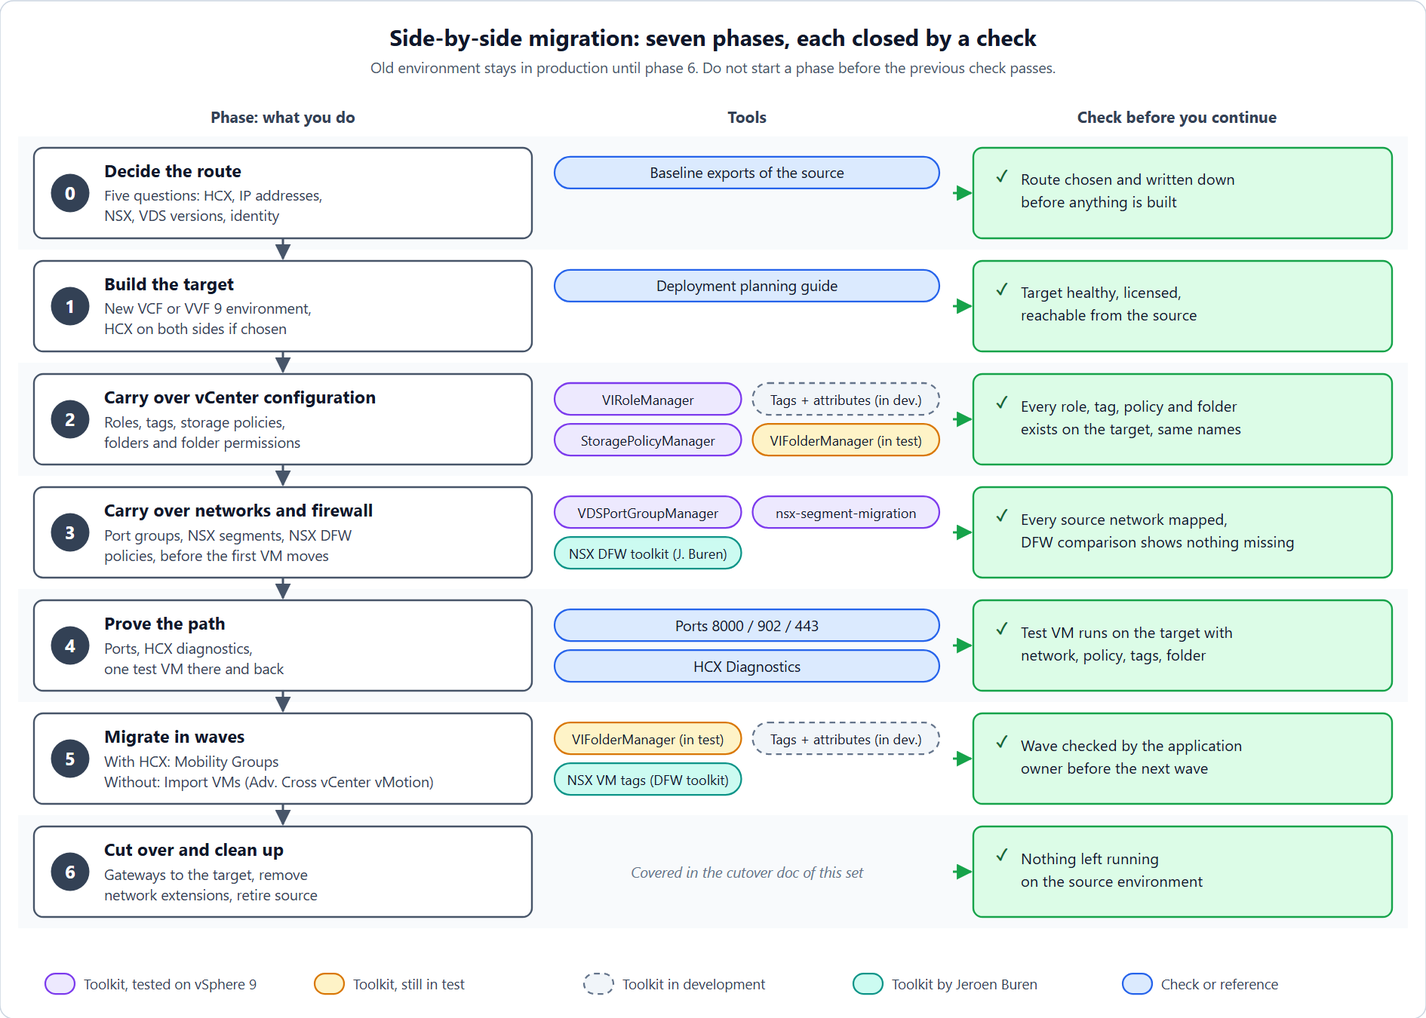
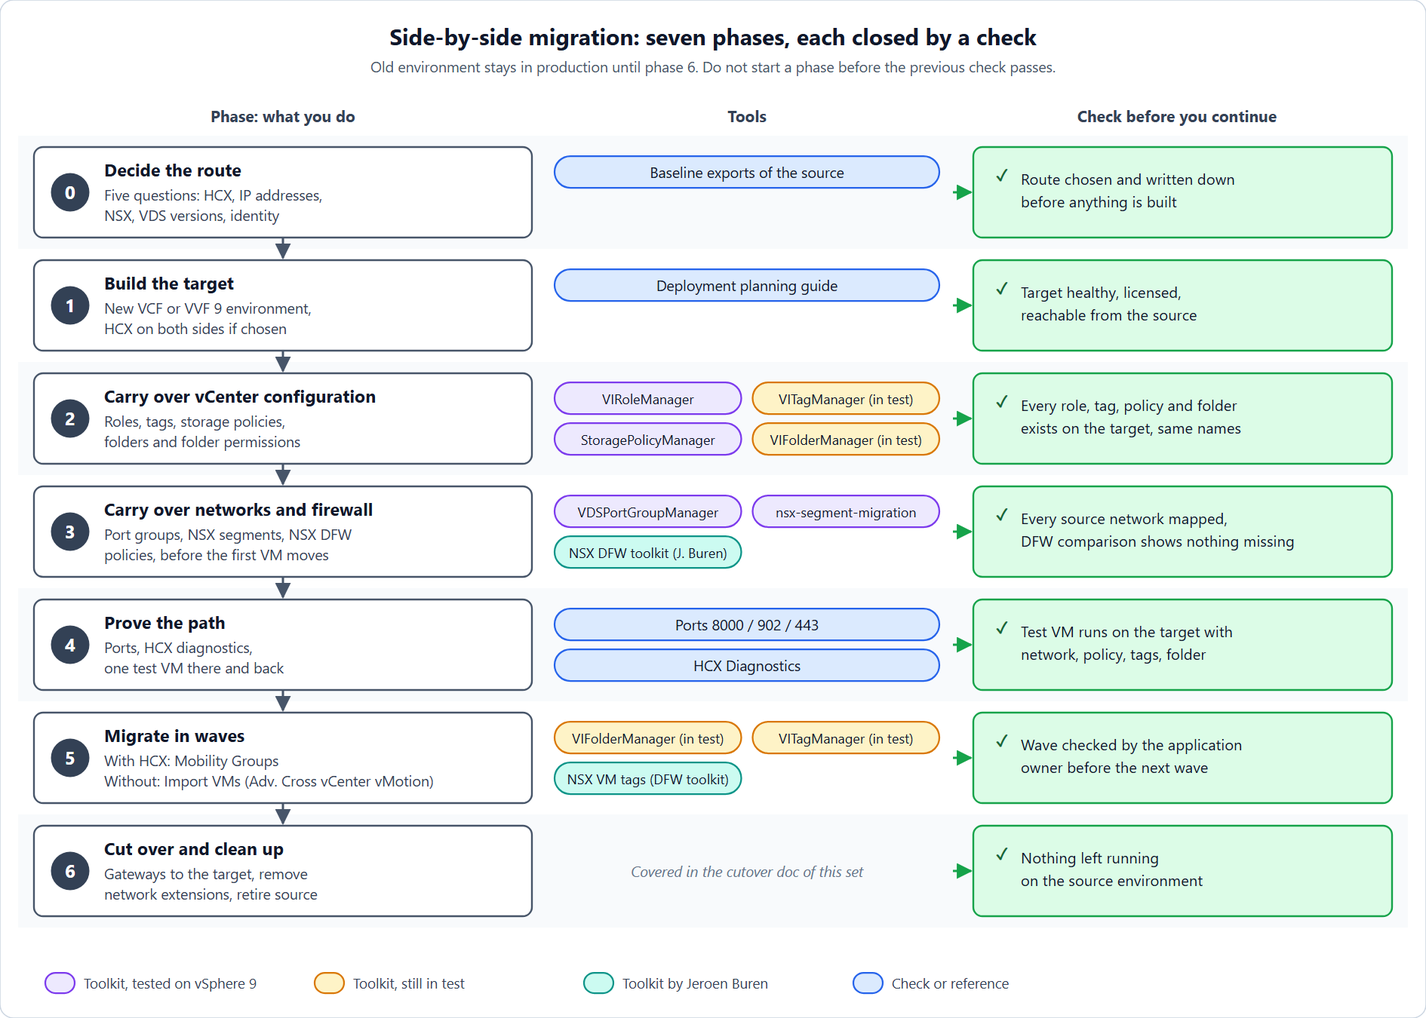
v2.9.3: VITagManager replaces the tags toolkit "in development" (#144)
docs/30 steps 2 and 3 carry tag categories, tags and custom attribute
names over with VITagManager (dry run, -Category, system attributes
skipped, import never removes), PowerCLI kept as the fallback. docs/29
phases 2 and 5, toolkit table and credits; docs/32 exports and re-applies
a wave's tags with -VMName from the wave list. Diagrams: tags chips now
"VITagManager (in test)", legend entry "Toolkit in development" removed,
PNGs re-rendered.

diff --git a/docs/30-carry-over-vcenter-configuration.md b/docs/30-carry-over-vcenter-configuration.md
@@ -70,9 +70,8 @@ target to the same directory first (question 5 in
 vCenters. Every export lands there. It's your reference for the checks,
 and your record of what the source looked like.
 
-**Who made the toolkits.** VIRoleManager, StoragePolicyManager and
-VIFolderManager, and the tags and custom attributes toolkit in
-development, are written by Paul van Dieen, the author of this guide
+**Who made the toolkits.** VIRoleManager, VITagManager,
+StoragePolicyManager and VIFolderManager are written by Paul van Dieen, the author of this guide
 ([hollebollevsan.nl](https://www.hollebollevsan.nl)).
 
 > **Use at your own risk.** These are community tools, not Broadcom
@@ -87,16 +86,20 @@ development, are written by Paul van Dieen, the author of this guide
 **What has been tested.** The toolkits have been tested with vSphere 9
 vCenters on both sides, and from a **vCenter 8.0 U3 source** into a
 vCenter 9.1.1 target (lab, 2026-11-16, with a test set per toolkit: roles,
-tag and vSAN policies, folders with permissions). VIFolderManager is
-still in test, and the vCenter 8 test had no hosts, so no VMs were moved
-into folders. A **7.x source** hasn't been tested. Open each export file
+tag and vSAN policies, folders with permissions, tag categories and
+custom attributes). VIFolderManager and VITagManager are still in test,
+and the vCenter 8 test had no hosts, so no VMs were moved into folders.
+VITagManager's VM part (assignments and values per wave, VMs with the
+same name) was tested from a VCF 9.0.2 source into 9.1.1 (lab,
+2026-11-16). A **7.x source** hasn't been tested. Open each export file
 and check that it holds what you expect before you import it. Where a
 toolkit has a dry run, use it first.
 
-**Things all three toolkits do the same way:**
+**Things all four toolkits do the same way:**
 
-- **Running an import twice is safe.** Roles and storage policies that
-  already exist are skipped; folders that exist are reused. So after a
+- **Running an import twice is safe.** Roles, storage policies, tag
+  categories, tags and attributes that already exist are skipped;
+  folders that exist are reused. So after a
   partial run or a fix, just run it again.
 - **Self-signed certificates** (a lab, or a vCenter without a CA-signed
   certificate yet): add `-SkipCertificateValidation`. In production, fix
@@ -104,19 +107,19 @@ toolkit has a dry run, use it first.
 - **Wrong or changed password:** add `-ResetCredentials` to be asked
   again.
 - **Pickers** accept a number, a comma-separated list, or `all`
-  (VIFolderManager also ranges like `2-6`).
+  (VIFolderManager and VITagManager also ranges like `2-6`).
 
 ---
 
 ## The order, and why
 
-![Carrying over the vCenter configuration in five steps. Before you start: PowerShell 7.4 or later with VCF.PowerCLI 9, the target joined to the same directory, one working folder. Step 1, roles with VIRoleManager: in phase 2 custom roles created and skipped privileges reviewed; nothing per VM. Step 2, tag categories and tags with the tags and custom attributes toolkit in development: in phase 2 categories and tags with the same cardinality and entity types; in phase 5 export assignments before each wave and apply them after, because they don't follow the VM. Step 3, custom attributes, same toolkit: in phase 2 attribute names with the same target type; in phase 5 check that the values arrived. Step 4, storage policies with StoragePolicyManager: in phase 2 imported or mapped, skipped rules reviewed; in phase 5 check each VM against the policy mapping. Step 5, folders and permissions with VIFolderManager, still in test: in phase 2 folder trees and folder permissions without moving objects; in phase 5 an import with -MoveObjects puts arrived VMs in their folders. Folder permissions need the roles from step 1; tag-based storage policy rules need the tags from step 2.](images/vcenter-config/order.png)
+![Carrying over the vCenter configuration in five steps. Before you start: PowerShell 7.4 or later with VCF.PowerCLI 9, the target joined to the same directory, one working folder. Step 1, roles with VIRoleManager: in phase 2 custom roles created and skipped privileges reviewed; nothing per VM. Step 2, tag categories and tags with VITagManager, still in test: in phase 2 categories and tags with the same cardinality and entity types; in phase 5 export assignments before each wave and apply them after, because they don't follow the VM. Step 3, custom attributes, same toolkit: in phase 2 attribute names with the same target type; in phase 5 check that the values arrived. Step 4, storage policies with StoragePolicyManager: in phase 2 imported or mapped, skipped rules reviewed; in phase 5 check each VM against the policy mapping. Step 5, folders and permissions with VIFolderManager, still in test: in phase 2 folder trees and folder permissions without moving objects; in phase 5 an import with -MoveObjects puts arrived VMs in their folders. Folder permissions need the roles from step 1; tag-based storage policy rules need the tags from step 2.](images/vcenter-config/order.png)
 
 | Step | What | Tool | Needs first |
 | --- | --- | --- | --- |
 | 1 | Roles | VIRoleManager | – |
-| 2 | Tag categories and tags | PowerCLI (toolkit in development) | – |
-| 3 | Custom attributes | PowerCLI (same toolkit, in development) | – |
+| 2 | Tag categories and tags | VITagManager, still in test | – |
+| 3 | Custom attributes | VITagManager, same run | – |
 | 4 | Storage policies | StoragePolicyManager | Step 2, for tag-based rules |
 | 5 | Folders and permissions | VIFolderManager, PowerCLI | Step 1 and the target's directory |
 
@@ -212,8 +215,9 @@ privilege whether that's acceptable.
 
 ## Step 2: tag categories and tags
 
-**Toolkit:** in development. Until then, PowerCLI as below, based on Jim
-Millard's [Copy-vcTags.ps1 and Migrate-vcTags.ps1](https://blog.millard.org/2026/05/migrating-tags-after-cross-vcenter.html).
+**Toolkit:** [VITagManager](https://github.com/pauldiee/VITagManager) (still in test, so the dry run is not
+optional). It handles step 3 as well. Without it: PowerCLI, at the end of
+this step.
 
 There are two parts to tags, and they move at different times:
 
@@ -227,15 +231,70 @@ get migrated with it even if the corresponding tags & categories are
 present in the target vCenter"*, and that the assignments must be
 captured before the VM moves, *"or that information is lost forever"*
 ([Migrating tags after cross-vCenter vMotion](https://blog.millard.org/2026/05/migrating-tags-after-cross-vcenter.html),
-Jim Millard, 2026-05).
+Jim Millard, 2026-05). VITagManager follows the same split: `-Content
+Definitions` now, `-Content Assignments` per wave.
 
-A toolkit for tags and custom attributes together is being developed for
-this set. Until it's available, use PowerCLI.
+**Export from the source.** One JSON file with the tag categories (with
+their cardinality and entity types), the tags, and the custom attribute
+names for step 3:
 
-**Copy categories and tags.** Connected to both vCenters, this creates
-every source category and tag that the target doesn't have yet. It's
-the same approach as Jim Millard's `Copy-vcTags.ps1`. Try it against a
-lab or a test vCenter first.
+```powershell
+.\Invoke-VITagManager.ps1 -vCenterServer <source-vcenter> -Mode Export -Content Definitions -BackupDirectory <working-folder>\tags
+```
+
+Add `-Category` (names or wildcards, for example `-Category 'Backup*','Tier'`)
+to take only some categories. Categories that belong to products you're
+leaving behind can stay where they are. Custom attributes that vCenter and
+other products create and manage themselves (names starting with
+`com.vmware.`, `com.vrlcm.`, `AutoDeploy.` or `VMSP-`, and attributes on
+non-inventory objects such as scheduled tasks) are left out; the log lists
+them (VITagManager README).
+
+**Import into the target**, first as a dry run:
+
+```powershell
+.\Invoke-VITagManager.ps1 -vCenterServer <target-vcenter> -Mode Import -Content Definitions -BackupDirectory <working-folder>\tags -DryRun
+```
+
+You pick the export file (the newest is marked). Read the log, then run
+the same command without `-DryRun`. What the import does:
+
+- Categories, tags and attributes that are **missing** are created with
+  the source's settings. One that **already exists** is left alone; if
+  its cardinality, entity types or target type differ, the log says so.
+- It **never removes** anything.
+- Pass the same `-Category` as on the export, or use it here to import
+  only part of a full export.
+
+The log file goes to `Logs\` next to the script unless you pass
+`-LogDirectory`. Keep it with the exports.
+
+**Export the assignments now, as a baseline.** You'll export them again
+right before each wave, but take this one now so you have the full
+picture before anything moves:
+
+```powershell
+.\Invoke-VITagManager.ps1 -vCenterServer <source-vcenter> -Mode Export -Content Assignments -BackupDirectory <working-folder>\tags
+```
+
+This holds the tags and custom attribute values of every VM, host,
+cluster, datastore, folder, network and the other inventory objects.
+
+**Running it again** creates only what's still missing, so it's safe to
+repeat: a second import reports everything as already present. **Undo:**
+`Remove-Tag` and `Remove-TagCategory` on the target.
+
+**Check.** Run the Definitions import once more with `-DryRun`: nothing
+to create, and no category with different settings. From a vCenter 8.0.3
+source into 9.1.1, the categories arrived with the same cardinality and
+entity types, including one without restrictions (lab-verified,
+2026-11-16).
+
+**Without the toolkit (PowerCLI).** Connected to both vCenters, this
+creates every source category and tag that the target doesn't have yet,
+the same approach as Jim Millard's
+[Copy-vcTags.ps1](https://blog.millard.org/2026/05/migrating-tags-after-cross-vcenter.html).
+Try it against a lab or a test vCenter first.
 
 ```powershell
 $src = Connect-VIServer <source-vcenter>
@@ -258,11 +317,7 @@ foreach ($tag in Get-Tag -Server $src) {
 `-Cardinality` is `Single` (one tag of this category per object) or
 `Multiple`; `-EntityType` limits which object types the category can be
 assigned to. Both are copied from the source, so a category behaves the
-same on the target.
-
-**Export the assignments now, as a baseline.** You'll export them again
-right before each wave, but take this one now so you have the full
-picture before anything moves:
+same on the target. A baseline of the assignments with PowerCLI:
 
 ```powershell
 Get-TagAssignment -Server $src | Select-Object `
@@ -271,18 +326,12 @@ Get-TagAssignment -Server $src | Select-Object `
   Export-Csv -Path <working-folder>\tag-assignments-baseline.csv -NoTypeInformation
 ```
 
-**Running it again** creates only what's still missing, so it's safe to
-repeat. **Undo:** `Remove-Tag` and `Remove-TagCategory` on the target.
-
-**Check.** `Get-TagCategory` and `Get-Tag` on both vCenters return the
-same names, and each category has the same cardinality and entity types.
-
 ---
 
 ## Step 3: custom attributes
 
-**Toolkit:** the tags and custom attributes toolkit, in development.
-Until then, PowerCLI as below.
+**Toolkit:** [VITagManager](https://github.com/pauldiee/VITagManager), the same run as step 2. Without it:
+PowerCLI, below.
 
 Custom attributes are the extra annotation fields on VMs and hosts.
 [KB 344959](https://knowledge.broadcom.com/external/article/344959) lists
@@ -290,7 +339,16 @@ them among the definitions that aren't migrated when they *don't* exist
 on the target, and among the metadata that *is* migrated when they do.
 So create the attribute names on the target first.
 
-Compare first; most environments have only a few:
+The Definitions export and import of step 2 already include the
+attribute names, each with its target type; a global attribute (no
+target type) is created as a global one (lab-verified on 9.1.1,
+2026-11-16). The Assignments export holds the values, so a wave import
+in phase 5 also fills in values that didn't arrive. A value that is
+already set to something else on the target is reported and kept, unless
+you add `-OverwriteValues`.
+
+**Without the toolkit (PowerCLI).** Compare first; most environments have
+only a few:
 
 ```powershell
 Get-CustomAttribute -Server $src | Select-Object Name, TargetType
@@ -308,7 +366,8 @@ An attribute without a target type on the source is a global one; create
 it with `-TargetType $null` (*"If the value is $null the custom attribute
 is global and applies to all target types"*, PowerCLI help).
 
-**Check.** Both lists match. After the test VM in phase 4, compare its
+**Check.** The attribute names and target types match on both vCenters
+(`Get-CustomAttribute`). After the test VM in phase 4, compare its
 values with `Get-Annotation` on both sides.
 
 ---

diff --git a/docs/29-side-by-side-migration.md b/docs/29-side-by-side-migration.md
@@ -288,7 +288,7 @@ Identity Broker, see
 
 ## The phases
 
-![Side-by-side migration in seven phases. 0, decide the route: the five questions, with baseline exports of the source; check: route chosen and written down. 1, build the target: new VCF or VVF 9 environment, HCX on both sides if chosen; check: target healthy, licensed, reachable. 2, carry over vCenter configuration: roles, tags, storage policies, folders and folder permissions, with VIRoleManager, the tags and custom attributes toolkit in development, StoragePolicyManager and VIFolderManager in test; check: everything exists on the target with the same names. 3, carry over the networks and the firewall: VDS port groups, NSX segments and NSX distributed firewall policies, with VDSPortGroupManager, nsx-segment-migration and Jeroen Buren's NSX DFW toolkit; check: every source network has a mapped target and the DFW comparison is clean. 4, prove the path: ports 8000, 902 and 443, HCX diagnostics, one test VM there and back; check: test VM runs with network, policy, tags and folder. 5, migrate in waves: HCX Mobility Groups or Import VMs, then VIFolderManager to restore folders and the NSX tags on the VMs; check: each wave verified by the application owner. 6, cut over and clean up: gateways to the target, remove network extensions, retire the source; check: nothing left running on the source.](images/side-by-side-migration/phases.png)
+![Side-by-side migration in seven phases. 0, decide the route: the five questions, with baseline exports of the source; check: route chosen and written down. 1, build the target: new VCF or VVF 9 environment, HCX on both sides if chosen; check: target healthy, licensed, reachable. 2, carry over vCenter configuration: roles, tags, storage policies, folders and folder permissions, with VIRoleManager, VITagManager in test, StoragePolicyManager and VIFolderManager in test; check: everything exists on the target with the same names. 3, carry over the networks and the firewall: VDS port groups, NSX segments and NSX distributed firewall policies, with VDSPortGroupManager, nsx-segment-migration and Jeroen Buren's NSX DFW toolkit; check: every source network has a mapped target and the DFW comparison is clean. 4, prove the path: ports 8000, 902 and 443, HCX diagnostics, one test VM there and back; check: test VM runs with network, policy, tags and folder. 5, migrate in waves: HCX Mobility Groups or Import VMs, then VIFolderManager to restore folders, VITagManager for the vSphere tags and attribute values, and the NSX tags on the VMs; check: each wave verified by the application owner. 6, cut over and clean up: gateways to the target, remove network extensions, retire the source; check: nothing left running on the source.](images/side-by-side-migration/phases.png)
 
 Each phase below has three parts: what it's for, what you do, and the
 check that closes it. Don't start a phase before the previous check
@@ -300,8 +300,7 @@ there's no reason to rush a phase.
 - **Do:** answer the [five questions](#phase-0-answer-five-questions).
   Then take a **baseline export** of the source with the toolkits below
   (roles, storage policies, folders, port groups, segments) and of the
-  tag assignments, with PowerCLI until the tags and custom attributes
-  toolkit is there. Even when
+  tag assignments and attribute values (VITagManager). Even when
   you rebuild part of it by hand, that export is your reference and your
   record of what the source looked like.
 - **Check:** the route is written down: HCX or not, IP addresses kept or
@@ -331,11 +330,9 @@ it:
 2. **Tag categories and tags.** Tag-based storage policy rules refer to
    them, and the tag assignments you re-apply in phase 5 need them
    ([KB 344959](https://knowledge.broadcom.com/external/article/344959)).
-   The toolkit for this (tags and custom attributes together) is still
-   being developed; until then, recreate them in the vSphere Client or
-   with PowerCLI.
-3. **Custom attributes.** Same KB, same reason, and the same toolkit in
-   development; until then, recreate the attribute names by hand.
+   VITagManager carries them over (still in test, so dry run first).
+3. **Custom attributes.** Same KB, same reason; VITagManager takes the
+   attribute names along in the same run.
 4. **Storage policies** (StoragePolicyManager). Tag-based rules are
    matched by category and tag name, so step 2 must be done first.
 5. **Folders and folder permissions** (VIFolderManager), folders only,
@@ -416,11 +413,11 @@ Step by step: [Migrating with HCX](33-migrating-with-hcx.md) or
     workload back to the legacy environment"*.
   - Without HCX: in the target vSphere Client, right-click the cluster or
     host and choose **Import VMs**.
-  - Right **before** each wave, export the tag assignments of its VMs
-    (`Get-TagAssignment`); right **after** it, assign the same tags on the
-    target (`New-TagAssignment`). The tags and custom attributes toolkit
-    will do this once it's
-    available.
+  - Right **before** each wave, export the tag assignments and custom
+    attribute values of its VMs with VITagManager (`-Content Assignments
+    -VMListPath <wave-file>`); right **after** it, import them on the
+    target with the same wave file, dry run first
+    ([docs/30, step 2](30-carry-over-vcenter-configuration.md#step-2-tag-categories-and-tags)).
   - After each wave, run VIFolderManager's import again with
     `-MoveObjects`: VMs that have arrived go back into their folders, VMs
     that haven't are listed and skipped, so the same export works for
@@ -460,9 +457,9 @@ PowerShell toolkits for the configuration work in phases 0, 2, 3 and 5.
 They export to files you can read and keep, and import into the target
 vCenter or NSX Manager.
 
-**Who made them.** VIRoleManager, StoragePolicyManager, VIFolderManager,
-VDSPortGroupManager, nsx-segment-migration and the tags and custom
-attributes toolkit are written by Paul van Dieen, the author of this guide
+**Who made them.** VIRoleManager, VITagManager, StoragePolicyManager,
+VIFolderManager, VDSPortGroupManager and nsx-segment-migration are
+written by Paul van Dieen, the author of this guide
 ([hollebollevsan.nl](https://www.hollebollevsan.nl)). The NSX DFW migration
 toolkit is written by Jeroen Buren
 ([configmgr.nl](https://configmgr.nl)).
@@ -479,7 +476,7 @@ toolkit is written by Jeroen Buren
 | Toolkit | Moves | Status |
 | --- | --- | --- |
 | [VIRoleManager](https://github.com/pauldiee/VIRoleManager) | vCenter roles and their privileges | Tested against vSphere 9 |
-| Tags and custom attributes toolkit | Tag categories and tags, custom attributes, and their assignments and values on objects | **In development**, not yet available |
+| [VITagManager](https://github.com/pauldiee/VITagManager) | Tag categories and tags, custom attributes, and per wave the tag assignments and attribute values on the VMs | **Still in test.** Lab-tested from vCenter 8.0 U3 and VCF 9.0.2 into 9.1.1. Run with `-DryRun` first |
 | [StoragePolicyManager](https://github.com/pauldiee/StoragePolicyManager) | VM storage policies (SPBM), incl. tag-based rules | Tested against vSphere 9 |
 | [VIFolderManager](https://github.com/pauldiee/VIFolderManager) | Folder trees (VM, host, datastore, network), which objects sit where, and permissions on folders | **Still in test.** Lab-tested on VCF 9.1.1 and 9.0.2. Run with `-DryRun` first |
 | [VDSPortGroupManager](https://github.com/pauldiee/VDSPortGroupManager) | VDS port groups, also onto a switch with other uplink names (`-UplinkMap`, 1.2.0+) | Lab-tested on vCenter 9.1.1 and 9.0.2 |

diff --git a/docs/32-migrating-without-hcx.md b/docs/32-migrating-without-hcx.md
@@ -153,13 +153,18 @@ target datastores, the window, and who signs it off.
 
 1. **Export the tag assignments** of the wave's VMs, right before you
    start. Tag assignments don't travel with the VM (Jim Millard,
-   [Migrating tags after cross-vCenter vMotion](https://blog.millard.org/2026/05/migrating-tags-after-cross-vcenter.html)):
+   [Migrating tags after cross-vCenter vMotion](https://blog.millard.org/2026/05/migrating-tags-after-cross-vcenter.html)).
+   With [VITagManager](https://github.com/pauldiee/VITagManager), which
+   takes the custom attribute values along too, for the VMs of wave 1 in
+   the wave list:
 
    ```powershell
-   Get-TagAssignment -Server $src -Entity (Get-VM -Server $src -Name <wave-vm-names>) | Select-Object `
-     @{N='VM';E={$_.Entity.Name}}, @{N='Category';E={$_.Tag.Category.Name}}, @{N='Tag';E={$_.Tag.Name}} |
-     Export-Csv -Path <working-folder>\tags-wave-<n>.csv -NoTypeInformation
+   $waveVMs = (Import-Csv <working-folder>\waves.csv | Where-Object Wave -eq 1).VM
+   .\Invoke-VITagManager.ps1 -vCenterServer <source-vcenter> -Mode Export -Content Assignments -VMName $waveVMs -BackupDirectory <working-folder>\tags
    ```
+
+   [The wave script](#the-wave-script) below exports the tags itself,
+   with plain PowerCLI.
 
 2. **Check the VMs**: not in a state that blocks vMotion (see
    [Virtual Machine Conditions and Limitations for vSphere vMotion](https://techdocs.broadcom.com/us/en/vmware-cis/vsphere/vsphere/9-1/vcenter-and-host-management/migrating-virtual-machines/migration-with-vmotion/virtual-machine-conditions-and-limitation-for-vmotion.html)),
@@ -228,15 +233,20 @@ For the VMs that arrived:
    import with `-MoveObjects` (dry run first); VMs that haven't arrived are
    listed and skipped
    ([docs/30, step 5](30-carry-over-vcenter-configuration.md#step-5-folders-and-permissions)).
-2. **vSphere tags:** re-apply the assignments from the wave's export:
+2. **vSphere tags:** re-apply the assignments from the wave's export,
+   dry run first, then the same command without `-DryRun`. Pick the
+   wave's export file in the menu (the newest is marked):
 
    ```powershell
-   Import-Csv <working-folder>\tags-wave-<n>.csv | ForEach-Object {
-     $vm  = Get-VM -Server $dst -Name $_.VM
-     $tag = Get-Tag -Server $dst -Category $_.Category -Name $_.Tag
-     New-TagAssignment -Server $dst -Entity $vm -Tag $tag
-   }
+   .\Invoke-VITagManager.ps1 -vCenterServer <target-vcenter> -Mode Import -Content Assignments -VMName $waveVMs -BackupDirectory <working-folder>\tags -DryRun
    ```
+
+   VMs that haven't arrived are counted as not found and listed in the
+   log, so a partial wave is fine. Tags that are already there are left
+   alone; a tag in a one-tag-per-object category is skipped when the VM
+   already has another one. VMs are matched by name; when a name occurs
+   twice on the target, the VM's UUID decides, otherwise the VM is
+   skipped (VITagManager README; lab-verified, 2026-11-16).
 
 3. **NSX tags**, when the target uses the distributed firewall
    ([docs/31, 4.9](31-carry-over-networks-and-firewall.md#49-vm-tags-per-wave-phase-5)).

diff --git a/CHANGELOG.md b/CHANGELOG.md
@@ -1,5 +1,18 @@
 # Changelog
 
+## v2.9.3 – 2026-11-16
+- `docs/29`, `docs/30`, `docs/32` (#144, Paul): VITagManager replaces the
+  tags and custom attributes toolkit "in development". `docs/30` steps 2
+  and 3 now carry the definitions over with it (export, `-Category`, dry
+  run, import that never removes; system custom attributes skipped),
+  with the PowerCLI way kept as the fallback; `docs/29` phases 2 and 5,
+  the toolkit table and the credits name it; `docs/32` exports and
+  re-applies the tags of a wave with it (`-VMName` from the wave list).
+  Lab-tested from vCenter 8.0.3 and VCF 9.0.2 into 9.1.1, 2026-11-16.
+- Diagrams `phases` and `order`: the tags chips are now "VITagManager
+  (in test)", the "Toolkit in development" legend entry is gone, PNGs
+  re-rendered.
+
 ## v2.9.2 – 2026-11-16
 - `docs/33`, `docs/34` (#142, Paul): ESX to IX on 31031 and 32032, as the
   Ports and Protocols listings for HCX 9.1.0 and 9.1.1 give it (read
